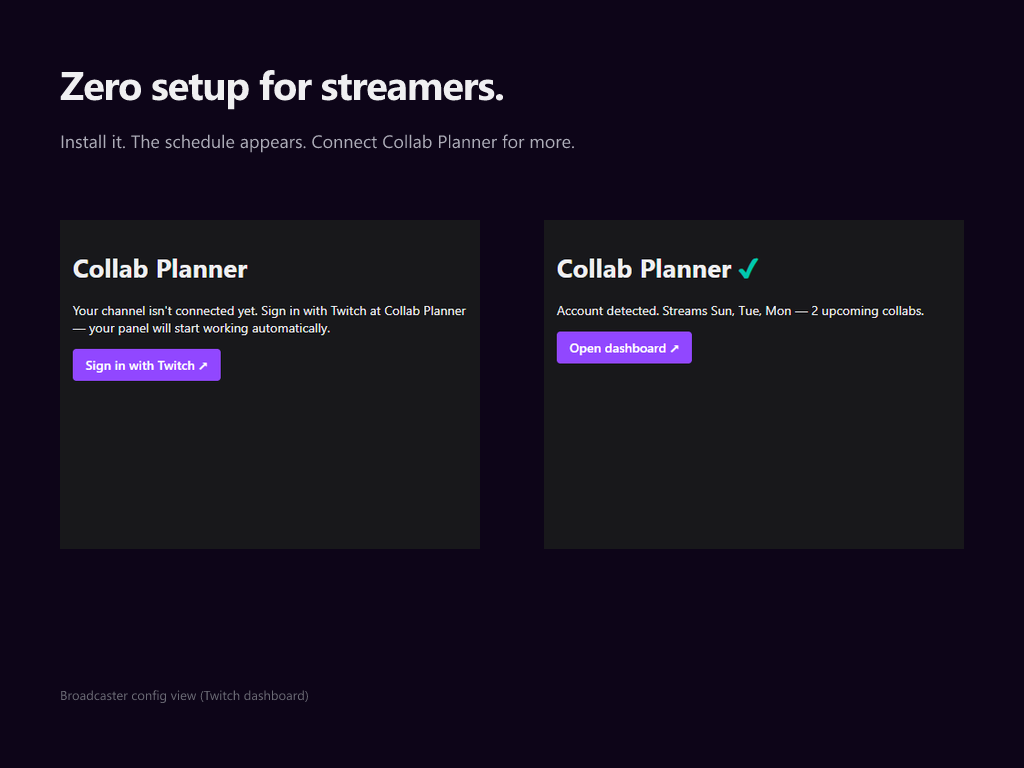
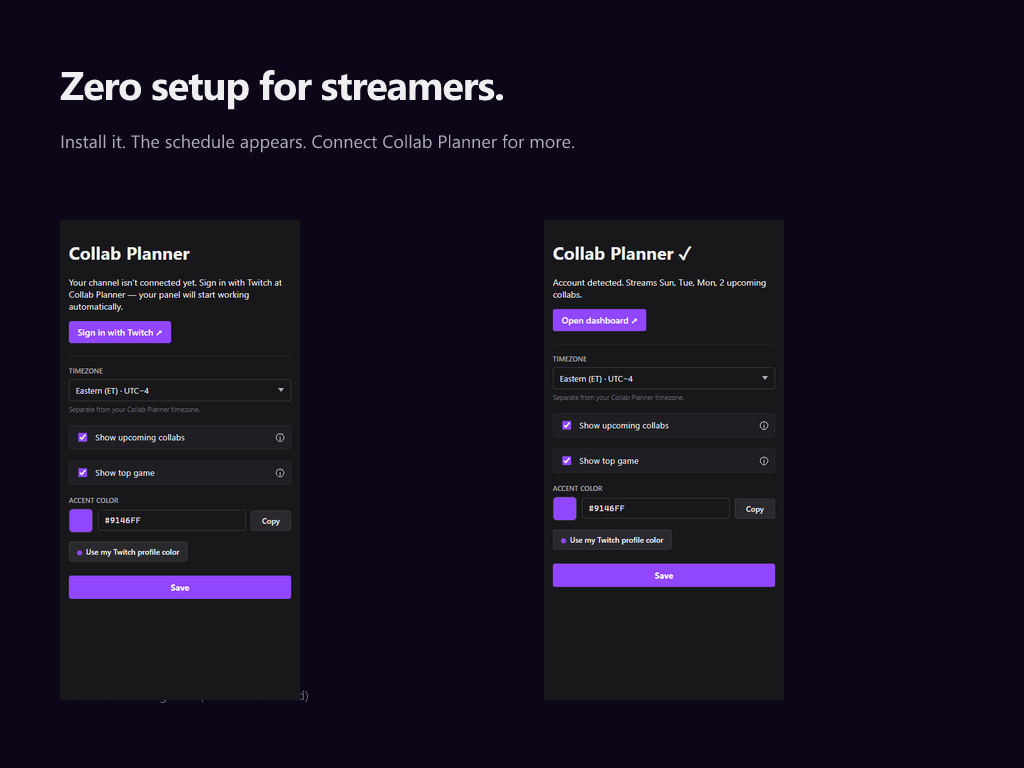
ext: 0.5.0 — info tooltips, heatmap polish, fresh screenshots
- Add hover info-tooltips next to showCollabs/showGame checkboxes
- Revert heatmap to 7×24 (days as rows, hours as cols); 24-row layout
  was geometrically cramped in a 340px panel. New layout uses near-square
  cells with proper gaps, GitHub-contribution-graph style
- config.tsx preview mode now populates fake authState so the settings
  form renders for screenshots
- Regenerate dashboard screenshots against new design via puppeteer

diff --git a/twitch-extension/src/components/Heatmap.tsx b/twitch-extension/src/components/Heatmap.tsx
@@ -1,7 +1,7 @@
 const DAY_LABELS = ["S", "M", "T", "W", "T", "F", "S"];
 
-// Hour labels — only show at 0/6/12/18; other rows are blank to keep the
-// left column tidy.
+// Hour-tick labels on the top axis — only show at 0/6/12/18 so we don't crowd.
+const HOUR_TICKS = [0, 6, 12, 18];
 const HOUR_LABELS: Record<number, string> = {
   0: "12a",
   6: "6a",
@@ -15,14 +15,15 @@ interface Props {
 }
 
 /**
- * 24-row × 7-col grid. Hour labels run down the left margin (12a/6a/12p/6p),
- * day labels across the top (S M T W T F S, Sunday-first).
+ * GitHub-style contribution-graph layout. 7 rows (days, Sunday-first) by 24
+ * columns (hours). Near-square cells with subtle rounding and visible gaps —
+ * the panel is too narrow for a 24-row transposed layout, which forced
+ * wide-thin cells that looked cramped.
  *
  * Cell intensity = dayFrequency[day] * hourDistribution[hour]. This assumes
- * day and hour are independent (only marginal distributions are exposed
- * server-side). For most streamers this is accurate enough; a streamer with
- * very different hours on different days may see some false-bright cells.
- * Improving requires computing a true 7×24 matrix in patterns.ts.
+ * day and hour are independent (only marginal distributions exposed
+ * server-side). A future revision could compute a true 7×24 matrix in
+ * patterns.ts for streamers whose hours vary a lot day-to-day.
  */
 export function Heatmap({ hourDistribution, dayFrequency }: Props) {
   const hasData =
@@ -33,27 +34,37 @@ export function Heatmap({ hourDistribution, dayFrequency }: Props) {
 
   return (
     <div className="heatmap">
-      <div className="heatmap-day-header">
+      <div className="heatmap-axis-top">
         <span className="heatmap-corner" />
-        {DAY_LABELS.map((d, i) => (
-          <span key={i} className="heatmap-day-label">{d}</span>
-        ))}
+        <div className="heatmap-hour-ticks">
+          {HOUR_TICKS.map((h) => (
+            <span
+              key={h}
+              className="heatmap-hour-tick"
+              style={{ left: `${(h / 24) * 100}%` }}
+            >
+              {HOUR_LABELS[h]}
+            </span>
+          ))}
+        </div>
       </div>
-      <div className="heatmap-body">
-        {Array.from({ length: 24 }, (_, hour) => (
-          <div className="heatmap-hour-row" key={hour}>
-            <span className="heatmap-hour-label">{HOUR_LABELS[hour] ?? ""}</span>
-            {Array.from({ length: 7 }, (_, day) => {
-              const intensity = dayFrequency[day] * hourDistribution[hour];
-              return (
-                <span
-                  key={day}
-                  className="heatmap-cell"
-                  style={{ opacity: Math.max(0.06, Math.min(1, intensity)) }}
-                  title={`${DAY_LABELS[day]} ${hour}:00 — ${Math.round(intensity * 100)}%`}
-                />
-              );
-            })}
+      <div className="heatmap-rows">
+        {DAY_LABELS.map((label, day) => (
+          <div className="heatmap-row" key={day}>
+            <span className="heatmap-day-label">{label}</span>
+            <div className="heatmap-cells">
+              {Array.from({ length: 24 }, (_, hour) => {
+                const intensity = dayFrequency[day] * hourDistribution[hour];
+                return (
+                  <span
+                    key={hour}
+                    className="heatmap-cell"
+                    style={{ opacity: Math.max(0.06, Math.min(1, intensity)) }}
+                    title={`${label} ${hour}:00 — ${Math.round(intensity * 100)}%`}
+                  />
+                );
+              })}
+            </div>
           </div>
         ))}
       </div>

diff --git a/twitch-extension/src/styles.css b/twitch-extension/src/styles.css
@@ -194,6 +194,67 @@ h2 {
 }
 .settings-form > label.checkbox:hover { background: #26262b; }
 .settings-form > label.checkbox > span { color: #efeff1; }
+
+/* Info tooltip bubble on the right edge of each checkbox row */
+.settings-form .info-tip {
+  position: relative;
+  margin-left: auto;
+  font-size: 13px;
+  color: #6b6b75;
+  cursor: help;
+  user-select: none;
+  transition: color 100ms ease;
+}
+.settings-form .info-tip:hover { color: var(--accent); }
+.settings-form .info-tip::after {
+  content: attr(data-tip);
+  position: absolute;
+  bottom: calc(100% + 8px);
+  right: -4px;
+  width: 220px;
+  padding: 8px 10px;
+  background: #1f1f23;
+  color: #efeff1;
+  border: 1px solid #3a3a3d;
+  border-radius: 4px;
+  font-size: 11px;
+  font-weight: 400;
+  text-transform: none;
+  letter-spacing: 0;
+  line-height: 1.4;
+  white-space: normal;
+  text-align: left;
+  opacity: 0;
+  pointer-events: none;
+  transform: translateY(2px);
+  transition: opacity 120ms ease, transform 120ms ease;
+  z-index: 10;
+  box-shadow: 0 4px 12px rgba(0, 0, 0, 0.4);
+}
+.settings-form .info-tip::before {
+  content: "";
+  position: absolute;
+  bottom: calc(100% + 3px);
+  right: 6px;
+  width: 0;
+  height: 0;
+  border-left: 5px solid transparent;
+  border-right: 5px solid transparent;
+  border-top: 5px solid #3a3a3d;
+  opacity: 0;
+  pointer-events: none;
+  transition: opacity 120ms ease;
+  z-index: 11;
+}
+.settings-form .info-tip:hover::after,
+.settings-form .info-tip:focus::after {
+  opacity: 1;
+  transform: translateY(0);
+}
+.settings-form .info-tip:hover::before,
+.settings-form .info-tip:focus::before {
+  opacity: 1;
+}
 .settings-form input[type="checkbox"] {
   accent-color: var(--accent);
   width: 14px;
@@ -331,48 +392,62 @@ h2 {
   vertical-align: middle;
 }
 
-/* ── Heatmap (hour × day grid; hours down the left, days across the top) */
+/* ── Heatmap (GitHub-style: 7 rows × 24 cols, near-square cells) ─────── */
 .heatmap {
-  margin-top: 12px;
-  font-size: 9px;
-  color: #adadb8;
-}
-.heatmap-day-header {
-  display: grid;
-  grid-template-columns: 28px repeat(7, 1fr);
-  gap: 2px;
-  margin-bottom: 3px;
-}
-.heatmap-corner { width: 28px; }
-.heatmap-day-label {
-  font-weight: 600;
-  color: #6b6b75;
-  text-align: center;
+  margin-top: 14px;
   font-size: 10px;
-  letter-spacing: 0.04em;
+  color: #6b6b75;
 }
-.heatmap-body {
+.heatmap-axis-top {
+  display: flex;
+  align-items: flex-end;
+  height: 14px;
+  margin-bottom: 4px;
+}
+.heatmap-corner {
+  flex: 0 0 18px;
+}
+.heatmap-hour-ticks {
+  position: relative;
+  flex: 1;
+  height: 12px;
+}
+.heatmap-hour-tick {
+  position: absolute;
+  transform: translateX(-50%);
+  font-size: 9px;
+  letter-spacing: 0.02em;
+  color: #6b6b75;
+}
+.heatmap-rows {
   display: flex;
   flex-direction: column;
-  gap: 1px;
+  gap: 3px;
 }
-.heatmap-hour-row {
-  display: grid;
-  grid-template-columns: 28px repeat(7, 1fr);
-  gap: 2px;
+.heatmap-row {
+  display: flex;
   align-items: center;
+  gap: 0;
 }
-.heatmap-hour-label {
+.heatmap-day-label {
+  flex: 0 0 18px;
+  font-weight: 600;
+  font-size: 10px;
   color: #6b6b75;
-  text-align: right;
-  padding-right: 4px;
-  font-size: 9px;
-  line-height: 1;
+  text-align: center;
+  letter-spacing: 0.04em;
+}
+.heatmap-cells {
+  flex: 1;
+  display: grid;
+  grid-template-columns: repeat(24, 1fr);
+  gap: 2px;
 }
 .heatmap-cell {
-  height: 4px;
+  aspect-ratio: 1 / 1;
+  min-height: 9px;
   background: var(--accent);
-  border-radius: 1px;
+  border-radius: 2px;
   display: block;
 }
 

diff --git a/twitch-extension/src/components/SettingsForm.tsx b/twitch-extension/src/components/SettingsForm.tsx
@@ -176,11 +176,21 @@ export function SettingsForm({ initialRaw, channelId, token }: Props) {
       <label className="checkbox">
         <input type="checkbox" checked={showCollabs} onChange={(e) => setShowCollabs(e.target.checked)} />
         <span>Show upcoming collabs</span>
+        <span
+          className="info-tip"
+          data-tip="Lists your planned collabs (with partner names and the game) below the schedule. Pulls from Collab Planner."
+          aria-label="What does this do?"
+        >ⓘ</span>
       </label>
 
       <label className="checkbox">
         <input type="checkbox" checked={showGame} onChange={(e) => setShowGame(e.target.checked)} />
         <span>Show top game</span>
+        <span
+          className="info-tip"
+          data-tip="Shows your most-played recent game as a small chip below the schedule. Variety streamers may want this off."
+          aria-label="What does this do?"
+        >ⓘ</span>
       </label>
 
       <label>

diff --git a/twitch-extension/src/config.tsx b/twitch-extension/src/config.tsx
@@ -73,7 +73,13 @@ function Config() {
   useEffect(() => {
     // Preview mode: ?preview=connected|warming|not_in_cp|no_data — bypasses the
     // Twitch JWT dance so the config layout is viewable in a plain browser.
+    // Also populates a fake authState so SettingsForm renders for screenshots.
     const previewMode = new URLSearchParams(window.location.search).get("preview");
+    if (previewMode) {
+      // Fake auth so the SettingsForm renders below the status strip
+      setAuthState({ channelId: "12345", clientId: "preview", token: "preview", userId: "u1" });
+      setConfigRaw(null);
+    }
     if (previewMode === "connected") {
       setState({ kind: "connected", topDays: ["Sun", "Tue", "Mon"], collabs: 2 });
       return;
